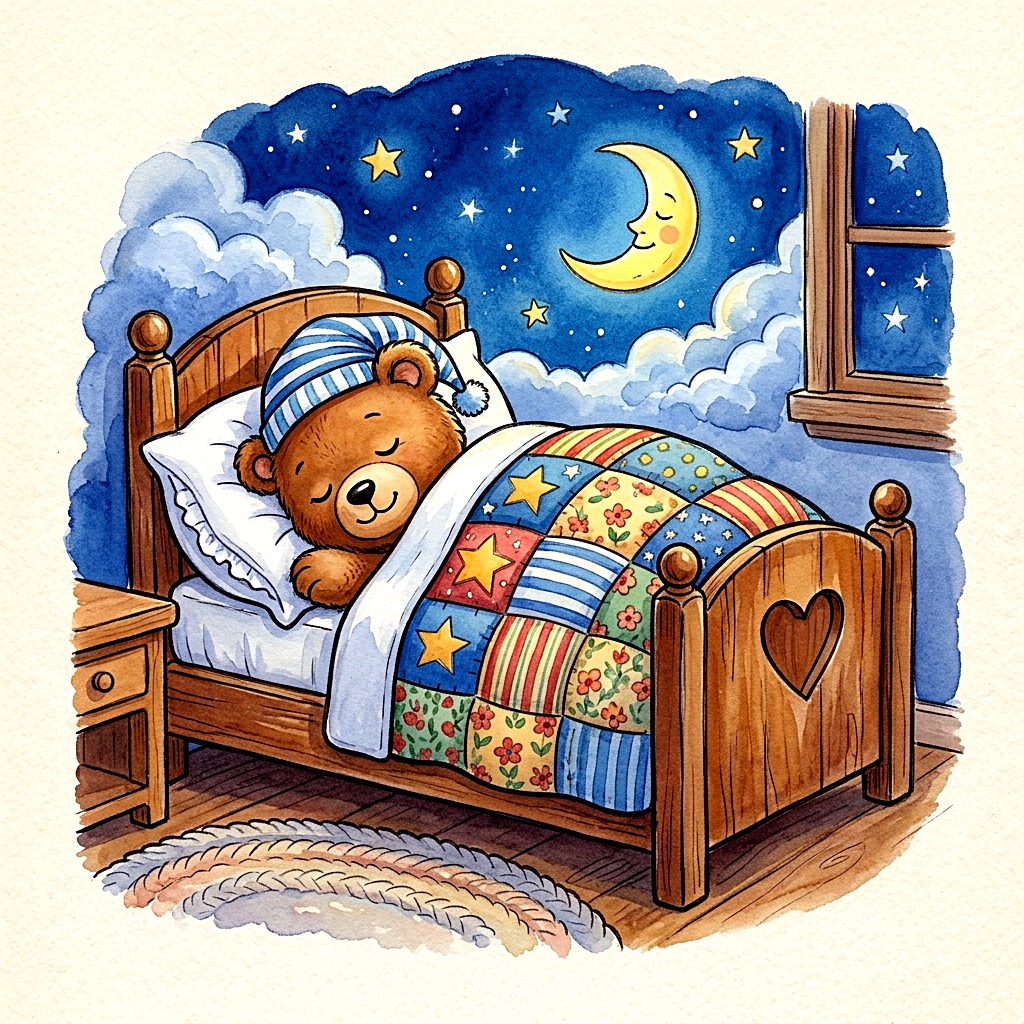
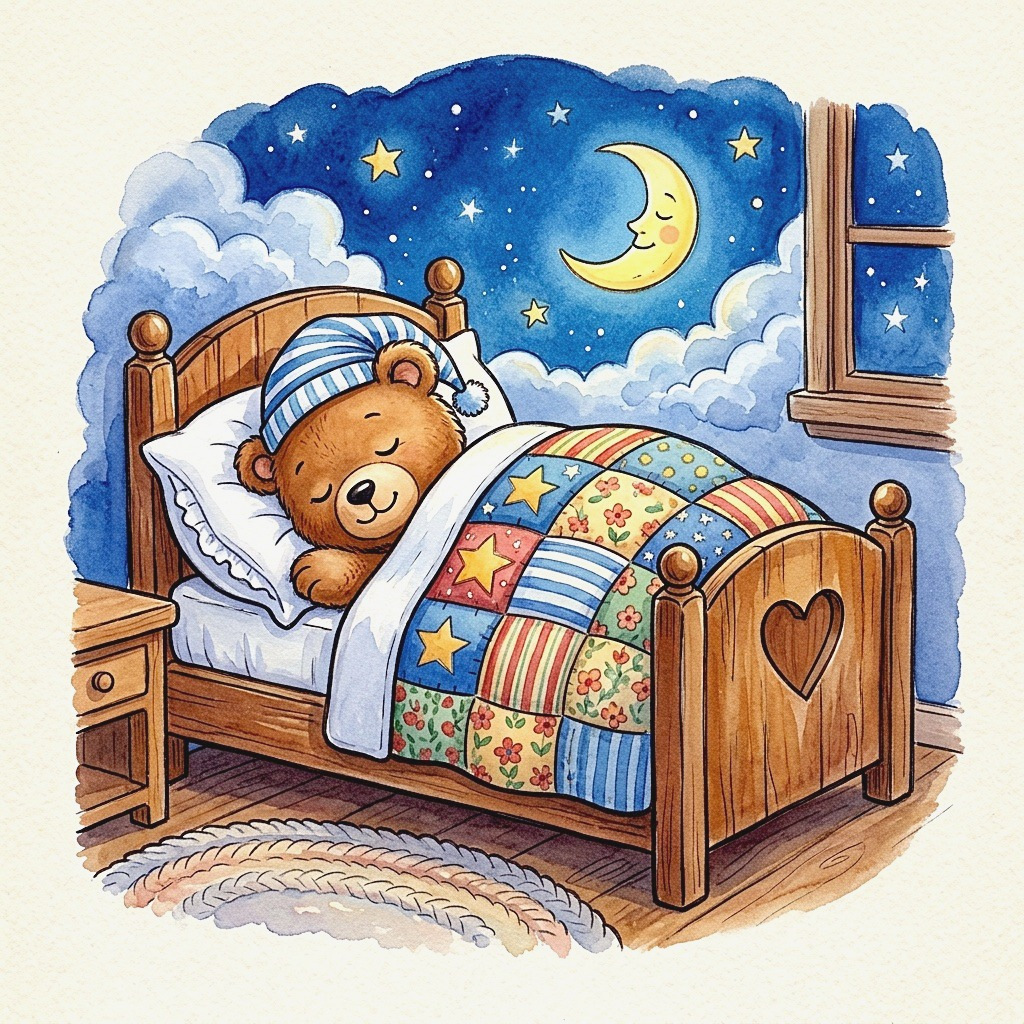
good-morning and sleep: softened to match the other images
Measured contrast 81.3 and 83.9 (others mostly 55 to 65), brightness 175.8
and 163.0 (others about 195). Gamma 0.8 and contrast x0.9 bring them to
69.4/183.3 and 70.9/171.7; the night scene stays a little darker. Google Lens
Exact matches on both final files: none. README preview refreshed.

diff --git a/output/sl-vsakdan.html b/output/sl-vsakdan.html
@@ -228,11 +228,11 @@
   <div class="page-a4 rt-page" style="background: linear-gradient(180deg, #D9CCF6 0%, #F6C9DE 22%, #FFD9B0 45%, #FFF0B8 70%, #D3ECFF 100%);">
     <div class="rt-grid" style="grid-template-rows: 14mm minmax(0, 0.45fr) repeat(14, minmax(0, 1fr)) minmax(0, 0.45fr);">
       <div class="rt-header"><div class="rt-title">☀ JUTRANJA RUTINA</div></div>
-      <div class="rt-pic pic-left" style="--step: #8B5CF6; --bg: #FFFFED; --ink: #5A3FA9; grid-row: 2 / span 4;">
+      <div class="rt-pic pic-left" style="--step: #8B5CF6; --bg: #F7F7EB; --ink: #5A3FA9; grid-row: 2 / span 4;">
         <img src="../images/good-morning.jpg" alt="Dobro jutro" />
         <div class="rt-num">1</div>
       </div>
-      <div class="rt-card card-left" style="--step: #8B5CF6; --bg: #FFFFED; --ink: #5A3FA9; grid-row: 3 / span 2;">
+      <div class="rt-card card-left" style="--step: #8B5CF6; --bg: #F7F7EB; --ink: #5A3FA9; grid-row: 3 / span 2;">
         <div class="rt-text">
           <div class="rt-label">DOBRO JUTRO</div>
           <div class="rt-time"><span class="blank"></span>:<span class="blank"></span></div>
@@ -450,11 +450,11 @@
         </div>
         <div class="rt-check"></div>
       </div>
-      <div class="rt-pic pic-left" style="--step: #312E81; --bg: #FFFEEC; --ink: #282569; grid-row: 14 / span 4;">
+      <div class="rt-pic pic-left" style="--step: #312E81; --bg: #F7F5E8; --ink: #282569; grid-row: 14 / span 4;">
         <img src="../images/sleep.jpg" alt="Spanje" />
         <div class="rt-num">7</div>
       </div>
-      <div class="rt-card card-left" style="--step: #312E81; --bg: #FFFEEC; --ink: #282569; grid-row: 15 / span 2;">
+      <div class="rt-card card-left" style="--step: #312E81; --bg: #F7F5E8; --ink: #282569; grid-row: 15 / span 2;">
         <div class="rt-text">
           <div class="rt-label">SPANJE</div>
           <div class="rt-time"><span class="blank"></span>:<span class="blank"></span></div>

diff --git a/web/data.js b/web/data.js
@@ -454,12 +454,12 @@ window.SHEET_EDGES = {
   "clear-table": ["#D8E3D7", "#FBDCB8"],
   "dinner": ["#FFE9BD", "#FDFEFD"],
   "getting-dressed": ["#EBFCF3", "#DEF7E6"],
-  "good-morning": ["#FFFFED", "#FFFFEB"],
+  "good-morning": ["#F7F7EB", "#F7F7E9"],
   "kindergarten": ["#FFFEFA", "#FFFFFB"],
   "make-bed": ["#FFFDF5", "#FFFEF5"],
   "pajamas": ["#FDD5BF", "#FCD6BD"],
   "set-table": ["#FDE8D7", "#FFDD9C"],
-  "sleep": ["#FFFEEC", "#FFFEEB"],
+  "sleep": ["#F7F5E8", "#F7F5E8"],
   "story": ["#C8CCDE", "#D1D8EB"],
   "tidy-toys": ["#F7DEBD", "#FFFEEA"],
   "toilet": ["#D4F3E9", "#BCE9D7"],
